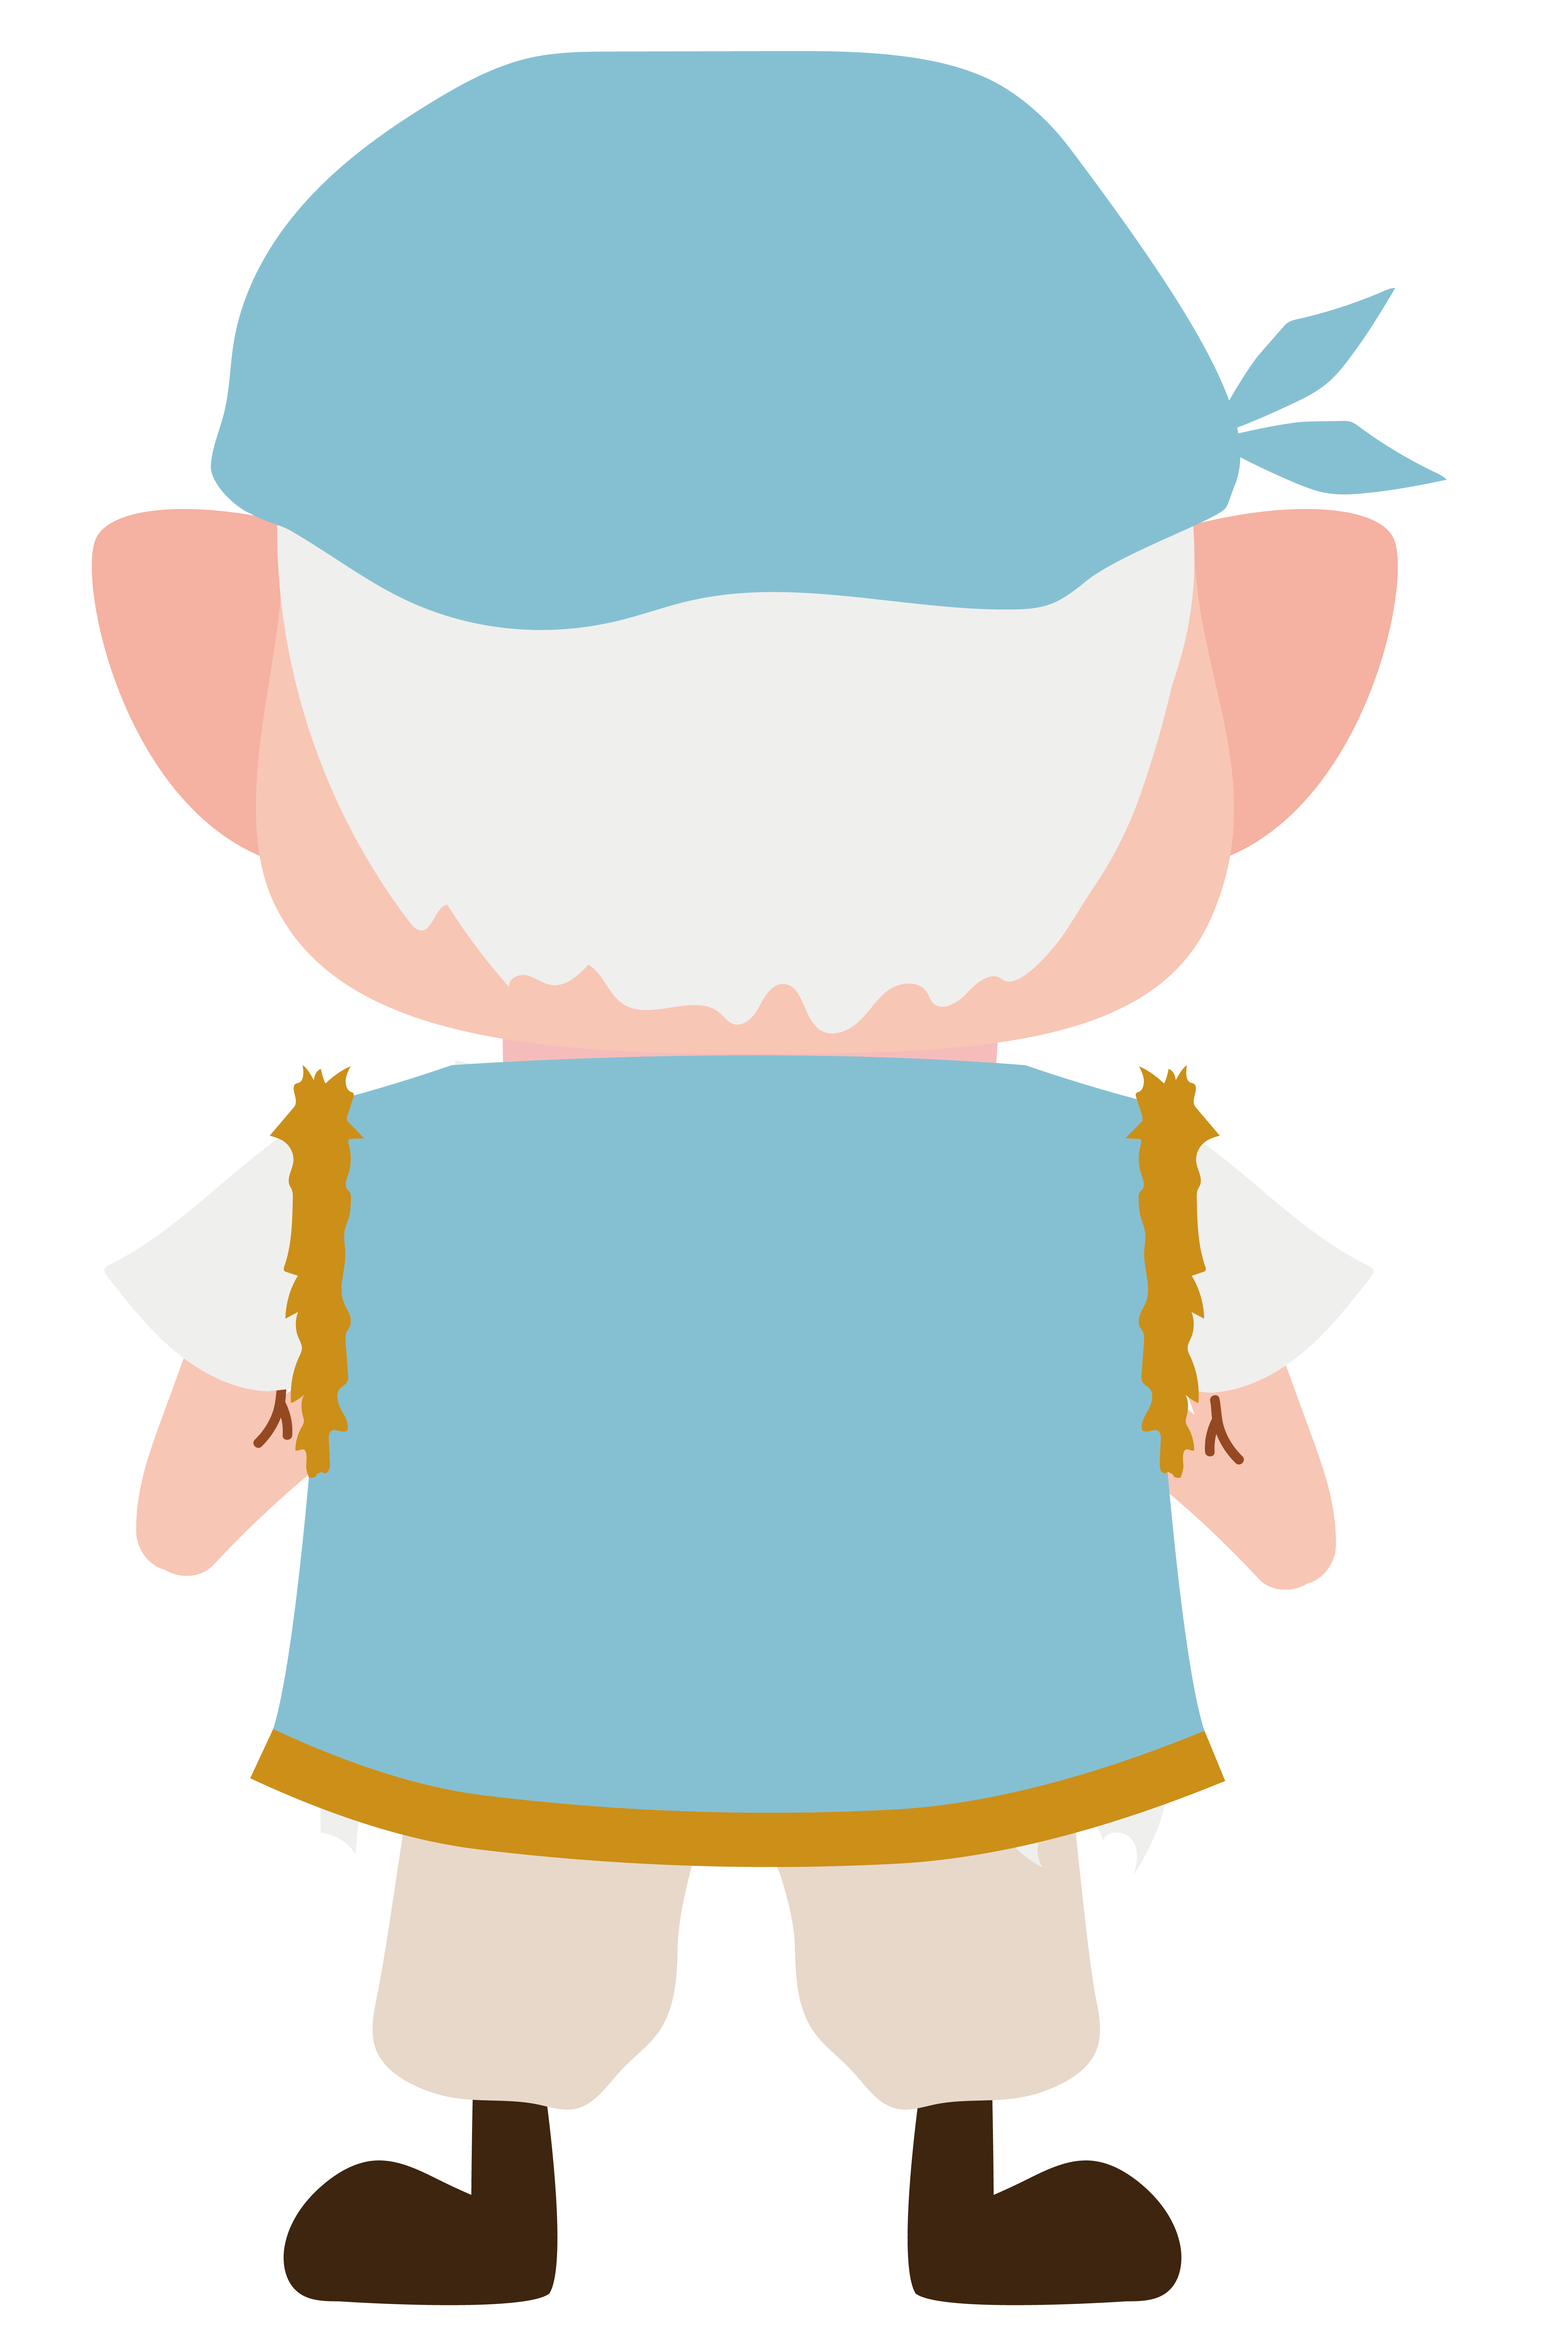
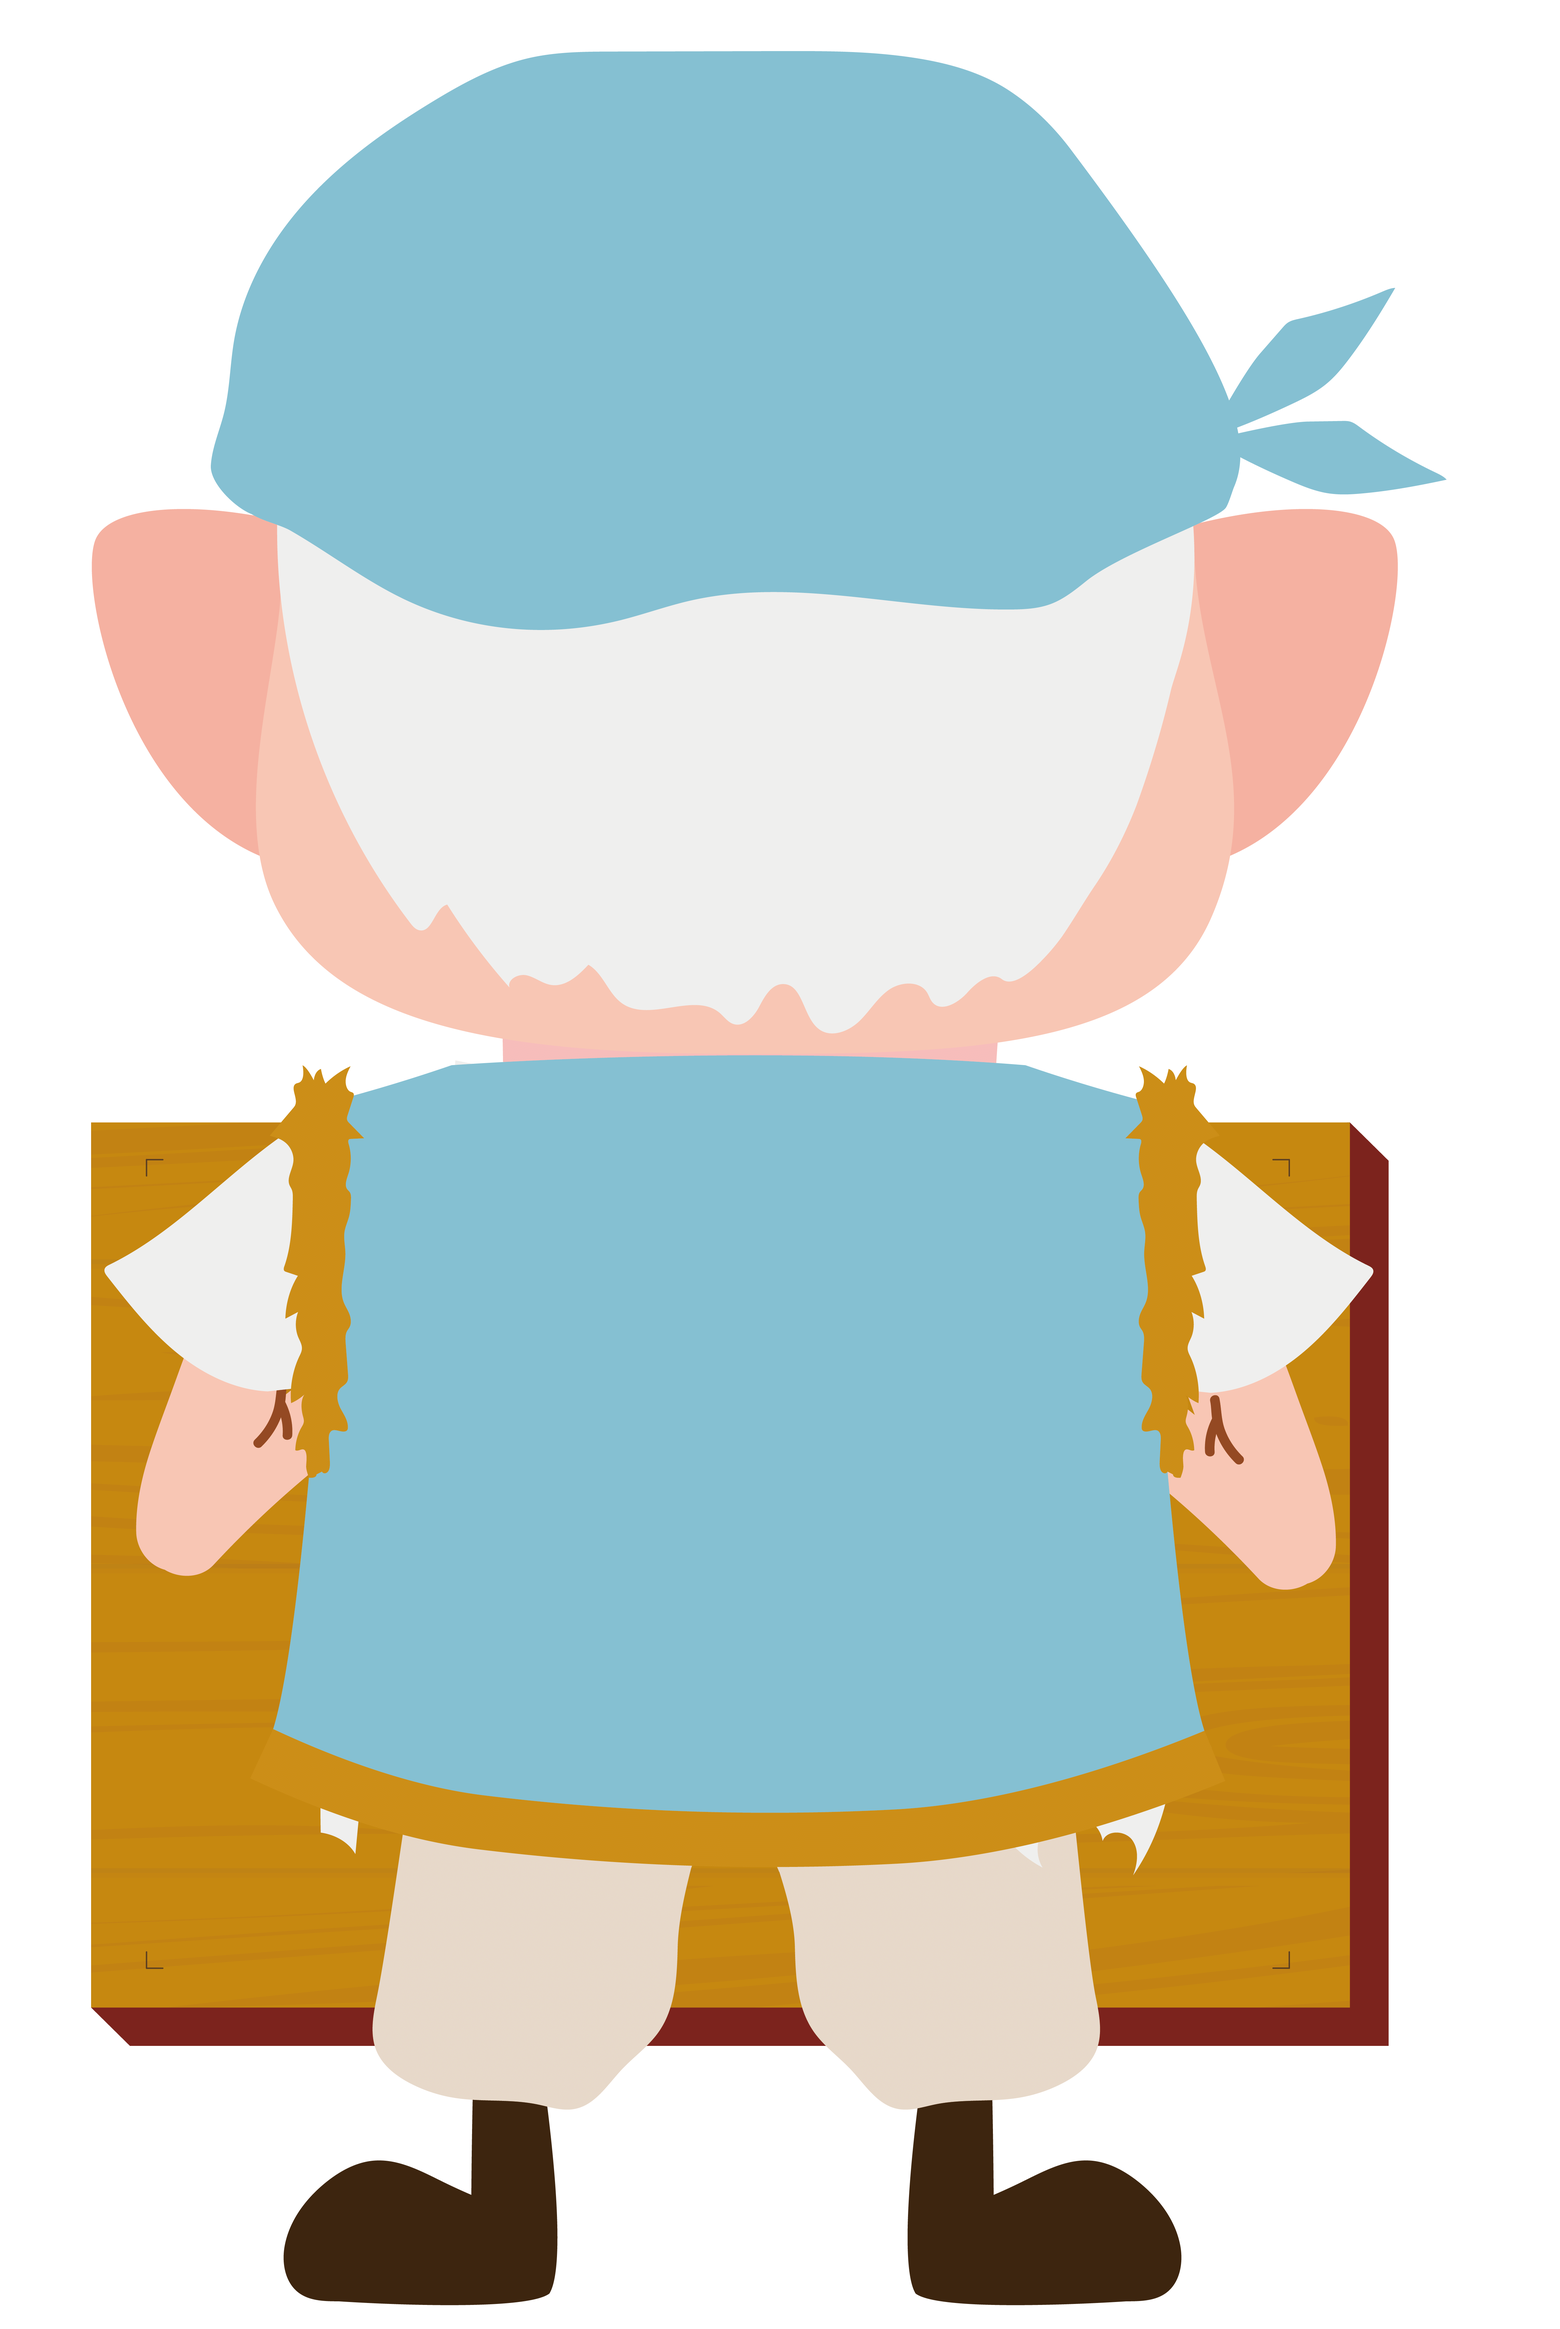
fix: 調整樣式

Changed region(s): [[0.0311, 0.4674, 0.2797, 0.9036], [0.6836, 0.4674, 0.9011, 0.9036], [0.404, 0.779, 0.5283, 0.9036]]

diff --git a/src/App.vue b/src/App.vue
@@ -47,7 +47,7 @@ axios
     questions.value = res.data.values.reduce((acc, cur) => {
       const [first, ...rest] = cur;
       bonusIndices.value.push(+rest[3])
-      return [...acc, [rest[0],rest[1],rest[2]]];
+      return [...acc, [rest[0], rest[1], rest[2]]];
     }, []);
 
     loading.value = false;
@@ -67,7 +67,7 @@ onBeforeMount(() => {
       if (round.value < 5) {
         turnAllBack();
         round.value += 1;
-      }  else {
+      } else {
         round.value = 1
       }
     }
@@ -106,11 +106,11 @@ onBeforeMount(() => {
     <h1 class="">ROUND {{ round }}</h1>
     <div class="img-container">
       <div class="img-wrapper" v-for="(i, index) in pirates">
-        <img v-show="!i.isTurn  && bonusIndices[round - 1] !== index +1" :src="i.back" />
-        <img v-show="i.isTurn  && bonusIndices[round - 1] !== index +1" :src="i.front" />
+        <img v-show="!i.isTurn && bonusIndices[round - 1] !== index + 1" :src="i.back" />
+        <img v-show="i.isTurn && bonusIndices[round - 1] !== index + 1" :src="i.front" />
 
-        <img v-show="!i.isTurn && bonusIndices[round - 1] === index +1" :src="i.bonus_back" />
-        <img v-show="i.isTurn && bonusIndices[round - 1] === index +1" :src="i.bonus_front" />
+        <img v-show="!i.isTurn && bonusIndices[round - 1] === index + 1" :src="i.bonus_back" />
+        <img v-show="i.isTurn && bonusIndices[round - 1] === index + 1" :src="i.bonus_front" />
         <span v-if="i.isTurn">{{ questions[round - 1].length > 0 ? questions[round - 1][index] : '' }}</span>
       </div>
     </div>
@@ -131,7 +131,8 @@ onBeforeMount(() => {
 }
 
 body {
-  background: url("assets/bg.png"); /* fallback for old browsers */
+  background: url("assets/bg.png");
+  /* fallback for old browsers */
   background-size: cover;
   // width: 100%;
   height: 100vh;
@@ -164,22 +165,28 @@ body {
 
     .img-wrapper {
       position: relative;
+
       span {
         position: absolute;
         left: 50%;
         transform: translateX(-50%);
-        top: 52%;
+        top: 48%;
         width: 60%;
-        font-size: 8rem;
+        font-size: 6rem;
         font-weight: bold;
-        color: #281f1d;
+        color: #fff;
+
+        text-shadow: 5px 5px 0 #1d3760, -1px -1px 0 #1d3760, 1px -1px 0 #1d3760, -1px 1px 0 #1d3760, 1px 1px 0 #1d3760;
+        -webkit-text-stroke: 6px #1d3760;
       }
     }
   }
+
   img {
     width: 100%;
   }
 }
+
 .block {
   background: url("assets/block.png");
   background-size: contain;
@@ -191,11 +198,14 @@ body {
   flex-direction: column;
   position: relative;
   padding: 4px;
+
   p {
     margin: 0;
   }
+
   &.correct {
     position: relative;
+
     &::before {
       position: absolute;
       content: "";
@@ -207,6 +217,7 @@ body {
       height: 100%;
     }
   }
+
   h1 {
     margin: 0;
     font-size: 36px;
@@ -220,6 +231,7 @@ body {
   left: 50%;
   transform: translate(-50%, -50%);
   z-index: 100;
+
   .wrong {
     width: 100%;
     animation: rubberBand 0.8s;
@@ -253,6 +265,7 @@ body {
   height: 100%;
   background-position: center;
   background-repeat: no-repeat;
+
   img {
     position: absolute;
     left: 50%;
@@ -262,15 +275,17 @@ body {
     animation: disappear 1.5s infinite;
   }
 }
+
 @keyframes disappear {
   0% {
     opacity: 0;
   }
+
   50% {
     opacity: 1;
   }
+
   100% {
     opacity: 1;
   }
-}
-</style>
+}</style>
